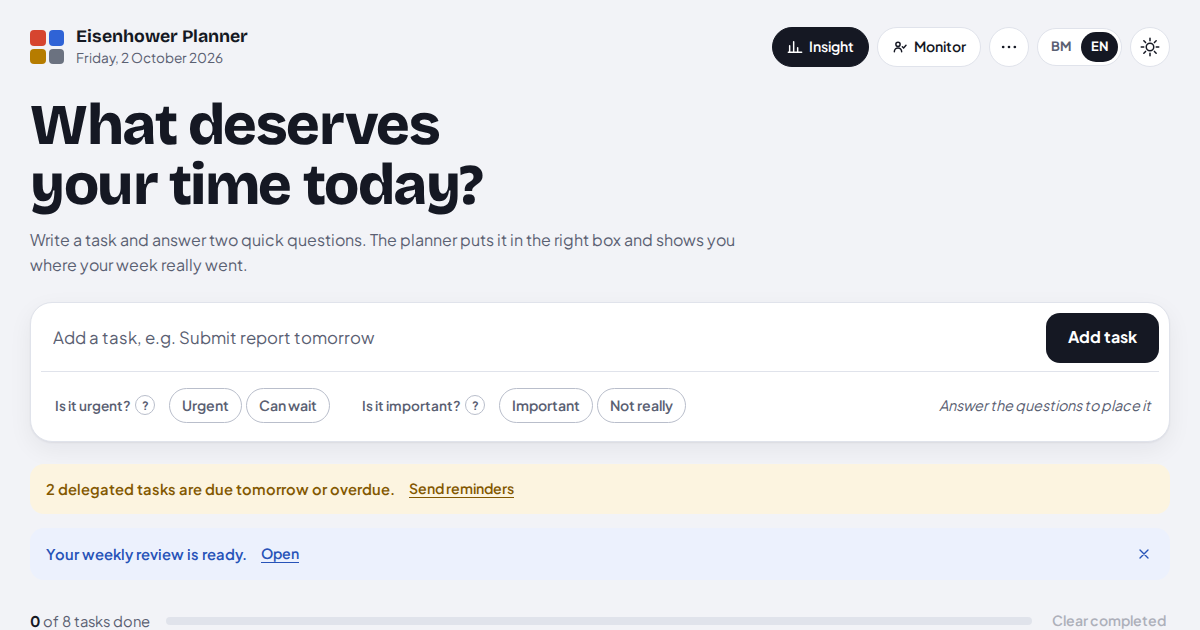
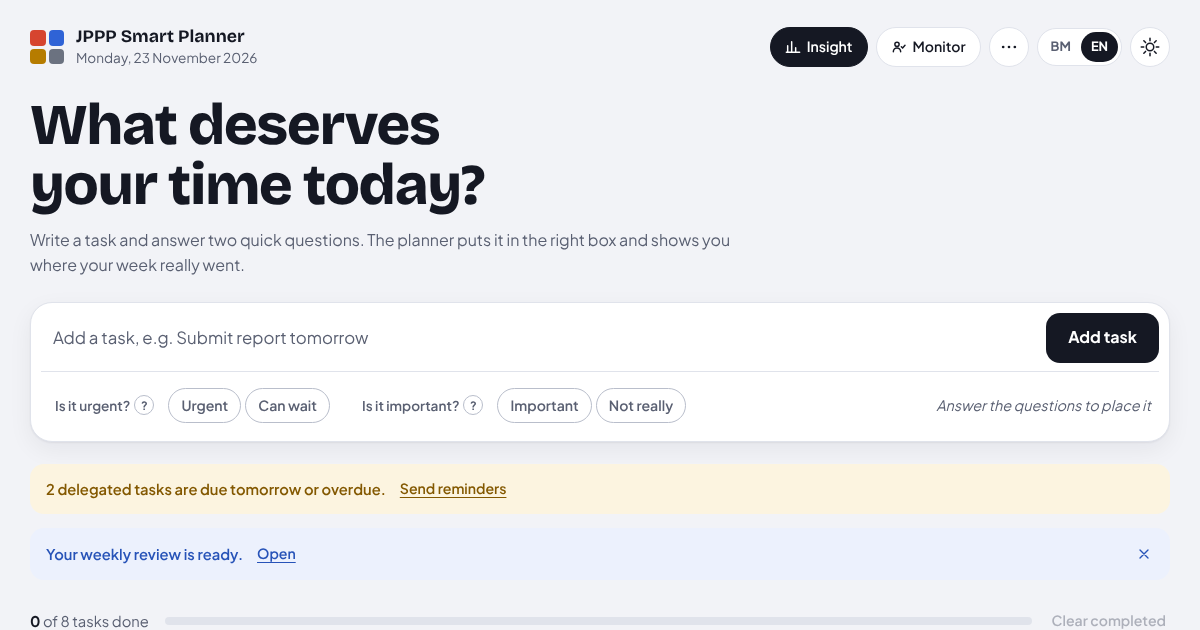
Rename to JPPP Smart Planner and add Last Man Out (MQS) task pack
- New name in the page title, header, install name, social preview and README
- Storage keys unchanged, so tasks already saved on phones are kept
- Menu item "Tambah pakej: Last Man Out (MQS)" and link ?pakej=lmo add
  10 tasks for the weekly Last Man Out duty rota (MARA Ecosystem Quality
  Standard): roster, checklist, signature/time-out record, posting the
  roster, committee review and filing as audit evidence
- The pack adds to existing tasks, never replaces them, and adding it
  twice creates no duplicates
- Service worker cache bumped to planner-v7 so installed apps update

Claude-Session: https://claude.ai/code/session_01C1EdhkvdAZuZda4QYeSTbi

diff --git a/app.js b/app.js
@@ -1,4 +1,4 @@
-/* Eisenhower Planner: a decision coach, not just a list.
+/* JPPP Smart Planner (Eisenhower Matrix): a decision coach, not just a list.
    Plain JavaScript, no dependencies. Data stays in this browser (localStorage). */
 (function () {
   "use strict";
@@ -73,8 +73,8 @@
       markDone: function (x) { return "Mark as done: " + x; },
       dblEdit: "Double-click to edit", schedDate: "Scheduled date", delegatedTo: "Delegated to", whoPh: "Who handles it?",
       addToCal: function (x) { return "Add to Google Calendar: " + x; },
-      calDetails: "Planned in the Schedule box of Eisenhower Planner (https://hafizi-ui.github.io/planner/).",
-      calDetailsDel: "Task assigned via Eisenhower Planner (https://hafizi-ui.github.io/planner/).",
+      calDetails: "Planned in the Schedule box of JPPP Smart Planner (https://hafizi-ui.github.io/planner/).",
+      calDetailsDel: "Task assigned via JPPP Smart Planner (https://hafizi-ui.github.io/planner/).",
       fromSchedule: "From Schedule", onlyYou: "Only you", overdue: "Overdue",
       dueDate: "Due date", notified: "Notified", saveContact: "Save contact",
       waAria: function (n, x) { return "Send on WhatsApp to " + n + ": " + x; },
@@ -143,6 +143,9 @@
       saveFail: "Could not save. Export a backup now.",
       confirmSample: "Replace your current tasks with the sample week? A copy of your tasks is kept, and Export still works.",
       sampleLoaded: "Sample week loaded. Open Insight to see the review.",
+      packLmo: "Add pack: Last Man Out (MQS)",
+      packAdded: function (n) { return n + " Last Man Out (MQS) tasks added. Fill in the PIC in Delegate."; },
+      packExists: "The Last Man Out (MQS) tasks are already in your planner.",
       q: {
         "do":       { title: "Do",       sub: "Urgent and important",         hint: "Finish these first.",       empty: "Nothing here yet. Urgent + important tasks land here." },
         "schedule": { title: "Schedule", sub: "Important, not urgent",        hint: "Give each one a date.",     empty: "Add what moves you forward: study, health, planning." },
@@ -197,8 +200,8 @@
       markDone: function (x) { return "Tanda selesai: " + x; },
       dblEdit: "Klik dua kali untuk sunting", schedDate: "Tarikh dijadualkan", delegatedTo: "Diagihkan kepada", whoPh: "Siapa yang uruskan?",
       addToCal: function (x) { return "Tambah ke Google Calendar: " + x; },
-      calDetails: "Dirancang dalam kotak Jadualkan, Eisenhower Planner (https://hafizi-ui.github.io/planner/).",
-      calDetailsDel: "Tugasan diagihkan melalui Eisenhower Planner (https://hafizi-ui.github.io/planner/).",
+      calDetails: "Dirancang dalam kotak Jadualkan, JPPP Smart Planner (https://hafizi-ui.github.io/planner/).",
+      calDetailsDel: "Tugasan diagihkan melalui JPPP Smart Planner (https://hafizi-ui.github.io/planner/).",
       fromSchedule: "Dari Jadualkan", onlyYou: "Hanya anda", overdue: "Lewat",
       dueDate: "Tarikh akhir", notified: "Dimaklumkan", saveContact: "Simpan kenalan",
       waAria: function (n, x) { return "Hantar WhatsApp kepada " + n + ": " + x; },
@@ -267,6 +270,9 @@
       saveFail: "Tidak dapat simpan. Eksport sandaran sekarang.",
       confirmSample: "Ganti tugasan semasa dengan minggu contoh? Salinan tugasan anda tetap disimpan, dan Eksport masih boleh digunakan.",
       sampleLoaded: "Minggu contoh dimuatkan. Buka Analisis untuk lihat ulasan.",
+      packLmo: "Tambah pakej: Last Man Out (MQS)",
+      packAdded: function (n) { return n + " tugasan Last Man Out (MQS) ditambah. Isi nama PIC di kotak Agihkan."; },
+      packExists: "Tugasan Last Man Out (MQS) sudah ada dalam planner anda.",
       q: {
         "do":       { title: "Buat",      sub: "Segera dan penting",              hint: "Siapkan ini dahulu.",                 empty: "Belum ada apa-apa. Tugasan segera + penting masuk di sini." },
         "schedule": { title: "Jadualkan", sub: "Penting, tidak segera",           hint: "Tetapkan tarikh untuk setiap satu.",  empty: "Tambah perkara yang membawa anda ke hadapan: belajar, kesihatan, perancangan." },
@@ -1198,6 +1204,58 @@
   $("sampleMenuBtn").addEventListener("click", function () { closeMenu(); loadSample(false); });
 
   /* ================================================================
+     Task pack: Last Man Out (MARA Ecosystem Quality Standard, MQS)
+     Weekly duty rota + checklist as audit evidence for energy saving and
+     office safety. Added on top of existing tasks (never replaces them).
+     Fixed ids, so adding the pack twice does not create duplicates.
+     ================================================================ */
+  function packLmoData() {
+    var now = Date.now();
+    function dateIn(days) { return todayISO(now + days * DAY); }
+    var bm = lang === "ms";
+    var L = function (ms, en) { return bm ? ms : en; };
+    return [
+      { id: "mqs-lmo-01", q: "do",
+        text: L("Senaraikan pegawai untuk giliran mingguan Last Man Out (MQS)", "List the officers for the weekly Last Man Out rota (MQS)") },
+      { id: "mqs-lmo-02", q: "schedule", date: dateIn(1),
+        text: L("Sediakan Jadual Bertugas Mingguan Last Man Out: tarikh/minggu bertugas dan nama pegawai", "Prepare the weekly Last Man Out duty roster: duty date/week and officer name") },
+      { id: "mqs-lmo-03", q: "schedule", date: dateIn(2),
+        text: L("Sediakan borang senarai semak Last Man Out: lampu ditutup, penyaman udara dimatikan, suis utama/palam dicabut, pintu utama dikunci", "Prepare the Last Man Out checklist: lights off, air-conditioning off, main switch/plugs off, main door locked") },
+      { id: "mqs-lmo-04", q: "schedule", date: dateIn(2),
+        text: L("Tambah ruangan tandatangan & masa keluar pada borang Last Man Out (rekod harian)", "Add signature & time-out columns to the Last Man Out form (daily record)") },
+      { id: "mqs-lmo-05", q: "schedule", date: dateIn(7),
+        text: L("Semakan rekod Last Man Out minggu pertama oleh Jawatankuasa MQS pusat", "First weekly check of Last Man Out records by the centre's MQS committee") },
+      { id: "mqs-lmo-06", q: "schedule",
+        text: L("Failkan jadual & borang Last Man Out sebagai bukti audit MQS (penjimatan tenaga & keselamatan pejabat)", "File the Last Man Out roster & forms as MQS audit evidence (energy saving & office safety)") },
+      { id: "mqs-lmo-07", q: "delegate", who: "", date: dateIn(3),
+        text: L("Cetak & tampal jadual Last Man Out di pintu keluar utama / papan kenyataan zon", "Print & post the Last Man Out roster at the main exit / zone notice board") },
+      { id: "mqs-lmo-08", q: "delegate", who: "", date: dateIn(3),
+        text: L("Maklumkan giliran Last Man Out kepada semua pegawai bertugas", "Tell every officer on the rota about the Last Man Out schedule") },
+      { id: "mqs-lmo-09", q: "delegate", who: "", date: dateIn(4),
+        text: L("Pegawai bertugas lengkapkan senarai semak, tandatangan & masa keluar setiap hari sebelum pulang", "Duty officer completes the checklist, signature & time out every day before leaving") },
+      { id: "mqs-lmo-10", q: "delete",
+        text: L("Bergantung kepada seorang sahaja untuk menutup pejabat setiap hari", "Relying on one person to close the office every day") }
+    ];
+  }
+
+  function addPackLmo() {
+    var have = Object.create(null);
+    tasks.concat(archive).forEach(function (t) { have[t.id] = true; });
+    var created = Date.now();
+    var fresh = packLmoData().filter(function (t) { return !have[t.id]; })
+      .map(function (t) { t.created = created; return t; });
+    if (!fresh.length) { showToast(T("packExists"), false); return; }
+    var seen = Object.create(null);
+    tasks.concat(archive).forEach(function (t) { seen[t.id] = true; });
+    tasks = tasks.concat(cleanList(fresh, seen));
+    var n = promoteDue();
+    commit();
+    showToast(T("packAdded", fresh.length), false);
+    setTimeout(function () { flash(n ? "do" : "schedule"); }, 300);
+  }
+  $("packLmoBtn").addEventListener("click", function () { closeMenu(); addPackLmo(); });
+
+  /* ================================================================
      Menu, export / import, install
      ================================================================ */
   var menu = $("menu"), menuBtn = $("menuBtn");
@@ -1217,7 +1275,7 @@
     closeMenu();
     var data = { app: "eisenhower-planner", version: 2, exportedAt: new Date().toISOString(), tasks: tasks, archive: archive, contacts: contacts };
     var blob = new Blob([JSON.stringify(data, null, 2)], { type: "application/json" });
-    var a = h("a", { href: URL.createObjectURL(blob), download: "eisenhower-tasks-" + todayISO() + ".json" });
+    var a = h("a", { href: URL.createObjectURL(blob), download: "jppp-smart-planner-" + todayISO() + ".json" });
     document.body.appendChild(a);
     a.click();
     setTimeout(function () { URL.revokeObjectURL(a.href); a.remove(); }, 1500);
@@ -1800,6 +1858,11 @@
   // ?demo=1 loads the sample week (only when the planner is empty, so real data is never replaced)
   if (/[?&]demo=1\b/.test(location.search)) {
     if (!tasks.length) loadSample(true);
+    try { history.replaceState(null, "", location.pathname + location.hash); } catch (e) {}
+  }
+  // ?pakej=lmo adds the Last Man Out (MQS) task pack on top of existing tasks
+  if (/[?&]pakej=lmo\b/.test(location.search)) {
+    addPackLmo();
     try { history.replaceState(null, "", location.pathname + location.hash); } catch (e) {}
   }
 })();

diff --git a/index.html b/index.html
@@ -3,8 +3,8 @@
 <head>
   <meta charset="utf-8">
   <meta name="viewport" content="width=device-width, initial-scale=1, viewport-fit=cover">
-  <title>Eisenhower Planner</title>
-  <meta name="description" content="A bilingual (BM/EN) Eisenhower planner that coaches you to sort tasks into Do, Schedule, Delegate and Delete, then shows where your week really went. Offline, private, no sign-up.">
+  <title>JPPP Smart Planner</title>
+  <meta name="description" content="JPPP Smart Planner: a bilingual (BM/EN) Eisenhower Matrix planner that coaches you to sort tasks into Do, Schedule, Delegate and Delete, then shows where your week really went. Offline, private, no sign-up.">
   <meta name="theme-color" content="#151823">
 
   <!-- Apply saved theme before CSS loads, so there is no flash of the wrong theme -->
@@ -16,7 +16,7 @@
   <link rel="canonical" href="https://hafizi-ui.github.io/planner/">
 
   <meta property="og:type" content="website">
-  <meta property="og:title" content="Eisenhower Planner: a decision coach, not just a list">
+  <meta property="og:title" content="JPPP Smart Planner: a decision coach, not just a list">
   <meta property="og:description" content="Sort tasks into Do, Schedule, Delegate and Delete, then see where your week went. BM/EN, offline, private.">
   <meta property="og:url" content="https://hafizi-ui.github.io/planner/">
   <meta property="og:image" content="https://hafizi-ui.github.io/planner/og.png">
@@ -34,7 +34,7 @@
       <div class="brand">
         <span class="logo" aria-hidden="true"><i></i><i></i><i></i><i></i></span>
         <div>
-          <p class="brand-name">Eisenhower Planner</p>
+          <p class="brand-name">JPPP Smart Planner</p>
           <p class="today" id="today"></p>
         </div>
       </div>
@@ -56,6 +56,7 @@
             <button type="button" id="exportBtn" data-i18n="export">Export backup</button>
             <button type="button" id="importBtn" data-i18n="import">Import backup</button>
             <button type="button" id="sampleMenuBtn" data-i18n="loadSample">Load sample week</button>
+            <button type="button" id="packLmoBtn" data-i18n="packLmo">Add pack: Last Man Out (MQS)</button>
             <button type="button" id="installBtn" data-i18n="install" hidden>Install app</button>
           </div>
         </div>

diff --git a/sw.js b/sw.js
@@ -1,6 +1,6 @@
 /* Offline support: serve the app from cache, refresh the cache in the background.
    Change CACHE (e.g. planner-v7) whenever you upload new files, so phones get the update. */
-const CACHE = "planner-v6";
+const CACHE = "planner-v7";
 const SHELL = [
   "./", "./index.html", "./style.css", "./app.js", "./manifest.json",
   "./icon.svg", "./icon-192.png", "./icon-180.png",

diff --git a/README.md b/README.md
@@ -1,4 +1,6 @@
-# Eisenhower Planner
+# JPPP Smart Planner
+
+*Planner berasaskan Matriks Eisenhower (sebelum ini dikenali sebagai Eisenhower Planner).*
 
 **Bukan sekadar senarai, tetapi jurulatih keputusan.**
 *Not just a list, a decision coach.*
@@ -49,6 +51,21 @@ A "Notified" label shows which PICs have been told.
 **Send to each PIC** (button at the bottom of the Delegate box) groups every open task by person and builds **one message per PIC**, numbered and sorted by due date, with an optional heading such as *"Mesyuarat Jabatan Bil. 3/2026"*. Tick *"Only tasks not yet notified"* to send just the new items after a follow-up meeting.
 
 **Team contacts** (⋯ menu) stores each member's name, WhatsApp number and email, so you never retype them. Add them one by one or import a CSV from Excel / Google Sheets (columns: name, WhatsApp no., email). Numbers like `012-345 6789` are converted to WhatsApp format automatically. Contacts stay on your device only and are never part of the public website.
+
+## Task pack: Last Man Out (MQS)
+
+A ready-made set of tasks for running a weekly **Last Man Out** duty rota under the **MARA Ecosystem Quality Standard (MQS)**. The rota and its daily checklist are evidence for MQS auditors that the office has an active system for **energy saving** (lights, fans and air-conditioning off after hours) and **office safety** (main switch off, doors and windows locked), with clear accountability for each week.
+
+Add it from the ⋯ menu (**Tambah pakej: Last Man Out (MQS)**) or open https://hafizi-ui.github.io/planner/?pakej=lmo. The tasks are added on top of your existing ones (nothing is replaced), and adding the pack twice does not create duplicates.
+
+| Box | Tasks |
+|---|---|
+| **Do** | List the officers for the weekly rota |
+| **Schedule** | Prepare the weekly duty roster (date/week + officer name) · Prepare the checklist (lights off, air-conditioning off, main switch/plugs off, main door locked) · Add signature & time-out columns (daily record) · First weekly check by the centre MQS committee · File the roster & forms as MQS audit evidence |
+| **Delegate** | Print & post the roster at the main exit / zone notice board · Tell every officer on the rota · Duty officer completes the checklist every day before leaving (fill in the PIC) |
+| **Delete** | Relying on one person to close the office every day |
+
+Scheduled dates are set from the day you add the pack (tomorrow, in 2 days, in a week), so the tasks move to Do on their own when the day arrives. Edit any date to match your audit timeline.
 
 ## Project monitor (Pantauan projek)
 
